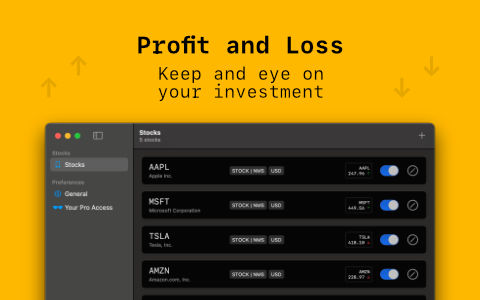
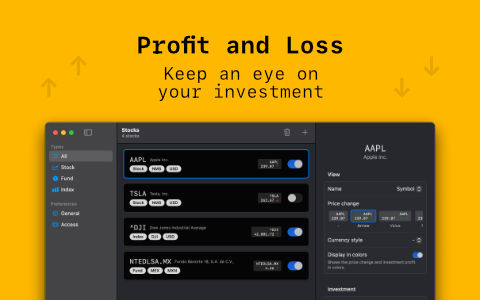
Update screenshots and layout

Changed region(s): [[0.0938, 0.39, 0.9062, 1.0], [0.3125, 0.21, 0.6875, 0.3]]

diff --git a/index.html b/index.html
@@ -11,7 +11,6 @@
     <script type="text/javascript" src="script.js"></script>
     <script type="text/javascript">
       <!--
-      loadScreenshots();
       loadVersions();
       // -->
     </script>
@@ -49,34 +48,43 @@
     </div>
     <div class="page-block">
       <div class="container" id="screenshots">
+        <img src="./images/screenshot-1.jpg" srcset="./images/screenshot-1.jpg, ./images/screenshot-1@2x.jpg 2x" class="screenshot" alt="Screenshot showing the menu bar app"/>
+        <img src="./images/screenshot-3.jpg" srcset="./images/screenshot-3.jpg, ./images/screenshot-3@2x.jpg 2x" class="screenshot" alt="Screenshot showing the app preferences for view customization"/>
       </div>
     </div>
     <div class="page-block">
       <div class="container" id="features">
+        <h2>Features</h2>
         <div class="feature-row">
           <div class="feature-item">
-            <h3>💻<br/>Menu Bar Integration</h3>
+            <h2>💻 Menu Bar Integration</h2>
             StockMonitor sits in your macOS menu bar, displaying the stocks and their current values in a compact view. It updates dynamically to show changes in stock values and trends compared to the previous day.
           </div>
           <div class="feature-item">
-            <h3>💼<br/>Portfolio Monitoring</h3>
+            <h2>💼 Portfolio Monitoring</h2>
             You can input your holdings to track the current value of your investments directly. It shows detailed information about value changes, making it suitable for casual investors who want a quick glance at their performance.
           </div>
           <div class="feature-item">
-            <h3>📈<br/>Trend Analysis</h3>
+            <h2>📈 Trend Analysis</h2>
             The app provides trends based on stock price fluctuations since the previous day’s close, giving users a quick sense of market movement.
           </div>
         </div>
         <div class="feature-row">
           <div class="feature-item">
-            <h3>😊<br/>User-Friendly</h3>
+            <h2>😊 User-Friendly</h2>
             Its interface is simple and designed for efficiency, making it an ideal choice for users who want lightweight functionality without advanced tools.
           </div>
           <div class="feature-item">
-            <h3>🍎<br/>macOS Exclusive</h3>
+            <h2>🍎 macOS Exclusive</h2>
             This app is built for macOS users, leveraging the platform’s design to provide a clean and effective experience.
           </div>
         </div>
+      </div>
+    </div>
+    <div class="page-block">
+      <div class="container" id="screenshots">
+        <img src="./images/screenshot-4.jpg"  srcset="./images/screenshot-4.jpg, ./images/screenshot-4@2x.jpg 2x" class="screenshot" alt="Screenshot showing the menu bar menu"/>
+        <img src="./images/screenshot-2.jpg" srcset="./images/screenshot-2.jpg, ./images/screenshot-2@2x.jpg 2x" class="screenshot" alt="Screenshot showing the app preferences for investment"/>
       </div>
     </div>
     <div class="page-block">

diff --git a/script.js b/script.js
@@ -33,32 +33,3 @@ function renderUpdate(update) {
 	html += '</ul></div></div>'
 	document.getElementById("versions").innerHTML += html
 }
-
-function loadScreenshots() {
-	loadJSONFile('./static-data/screenshots.json', function(content) {
-		renderScreenshots(content)
-	})
-}
-
-function renderScreenshots(screenshots) {
-	for (var i = 0; i <= screenshots.length - 1; i++) {
-		renderScreenshot(screenshots[i])
-	}	
-}
-
-function renderScreenshot(screenshot) {
-	const path = './images/'
-	const fileName = path + screenshot.name + "." + screenshot.file_extension
-	const fileNameTwo = path + screenshot.name + "@2x." + screenshot.file_extension + " 2x"
-	const html = '<img src="' 
-		+ fileName
-		+ '" srcset="'
-		+ fileName
-		+ ', '
-		+ fileNameTwo
-		+ '" class="screenshot" alt="'
-		+ screenshot.alt 
-		+ '" />'
-	document.getElementById("screenshots").innerHTML += html
-
-}

diff --git a/styles.css b/styles.css
@@ -201,8 +201,24 @@ h2 {
 .feature-item {
   display: inline-block;
   width: 40ch;
-  margin: 30px;
+  margin: 15px;
+  padding: 24px;
   vertical-align: top;
+  background-color: rgba(255, 255, 255, 0.1);
+  border-radius: 15px;
+  min-height: 12em;
+  text-align: left;
+  color: rgba(255, 255, 255, 0.8);
+  line-height: 1.5em;
+}
+
+.feature-item h2 {
+  font-size: 1.6em;
+  font-weight: bold;
+  margin-bottom: 20px;
+  padding: 0px;
+  text-align: left;
+  color: rgba(255, 255, 255, 1);
 }
 
 .review-title {
